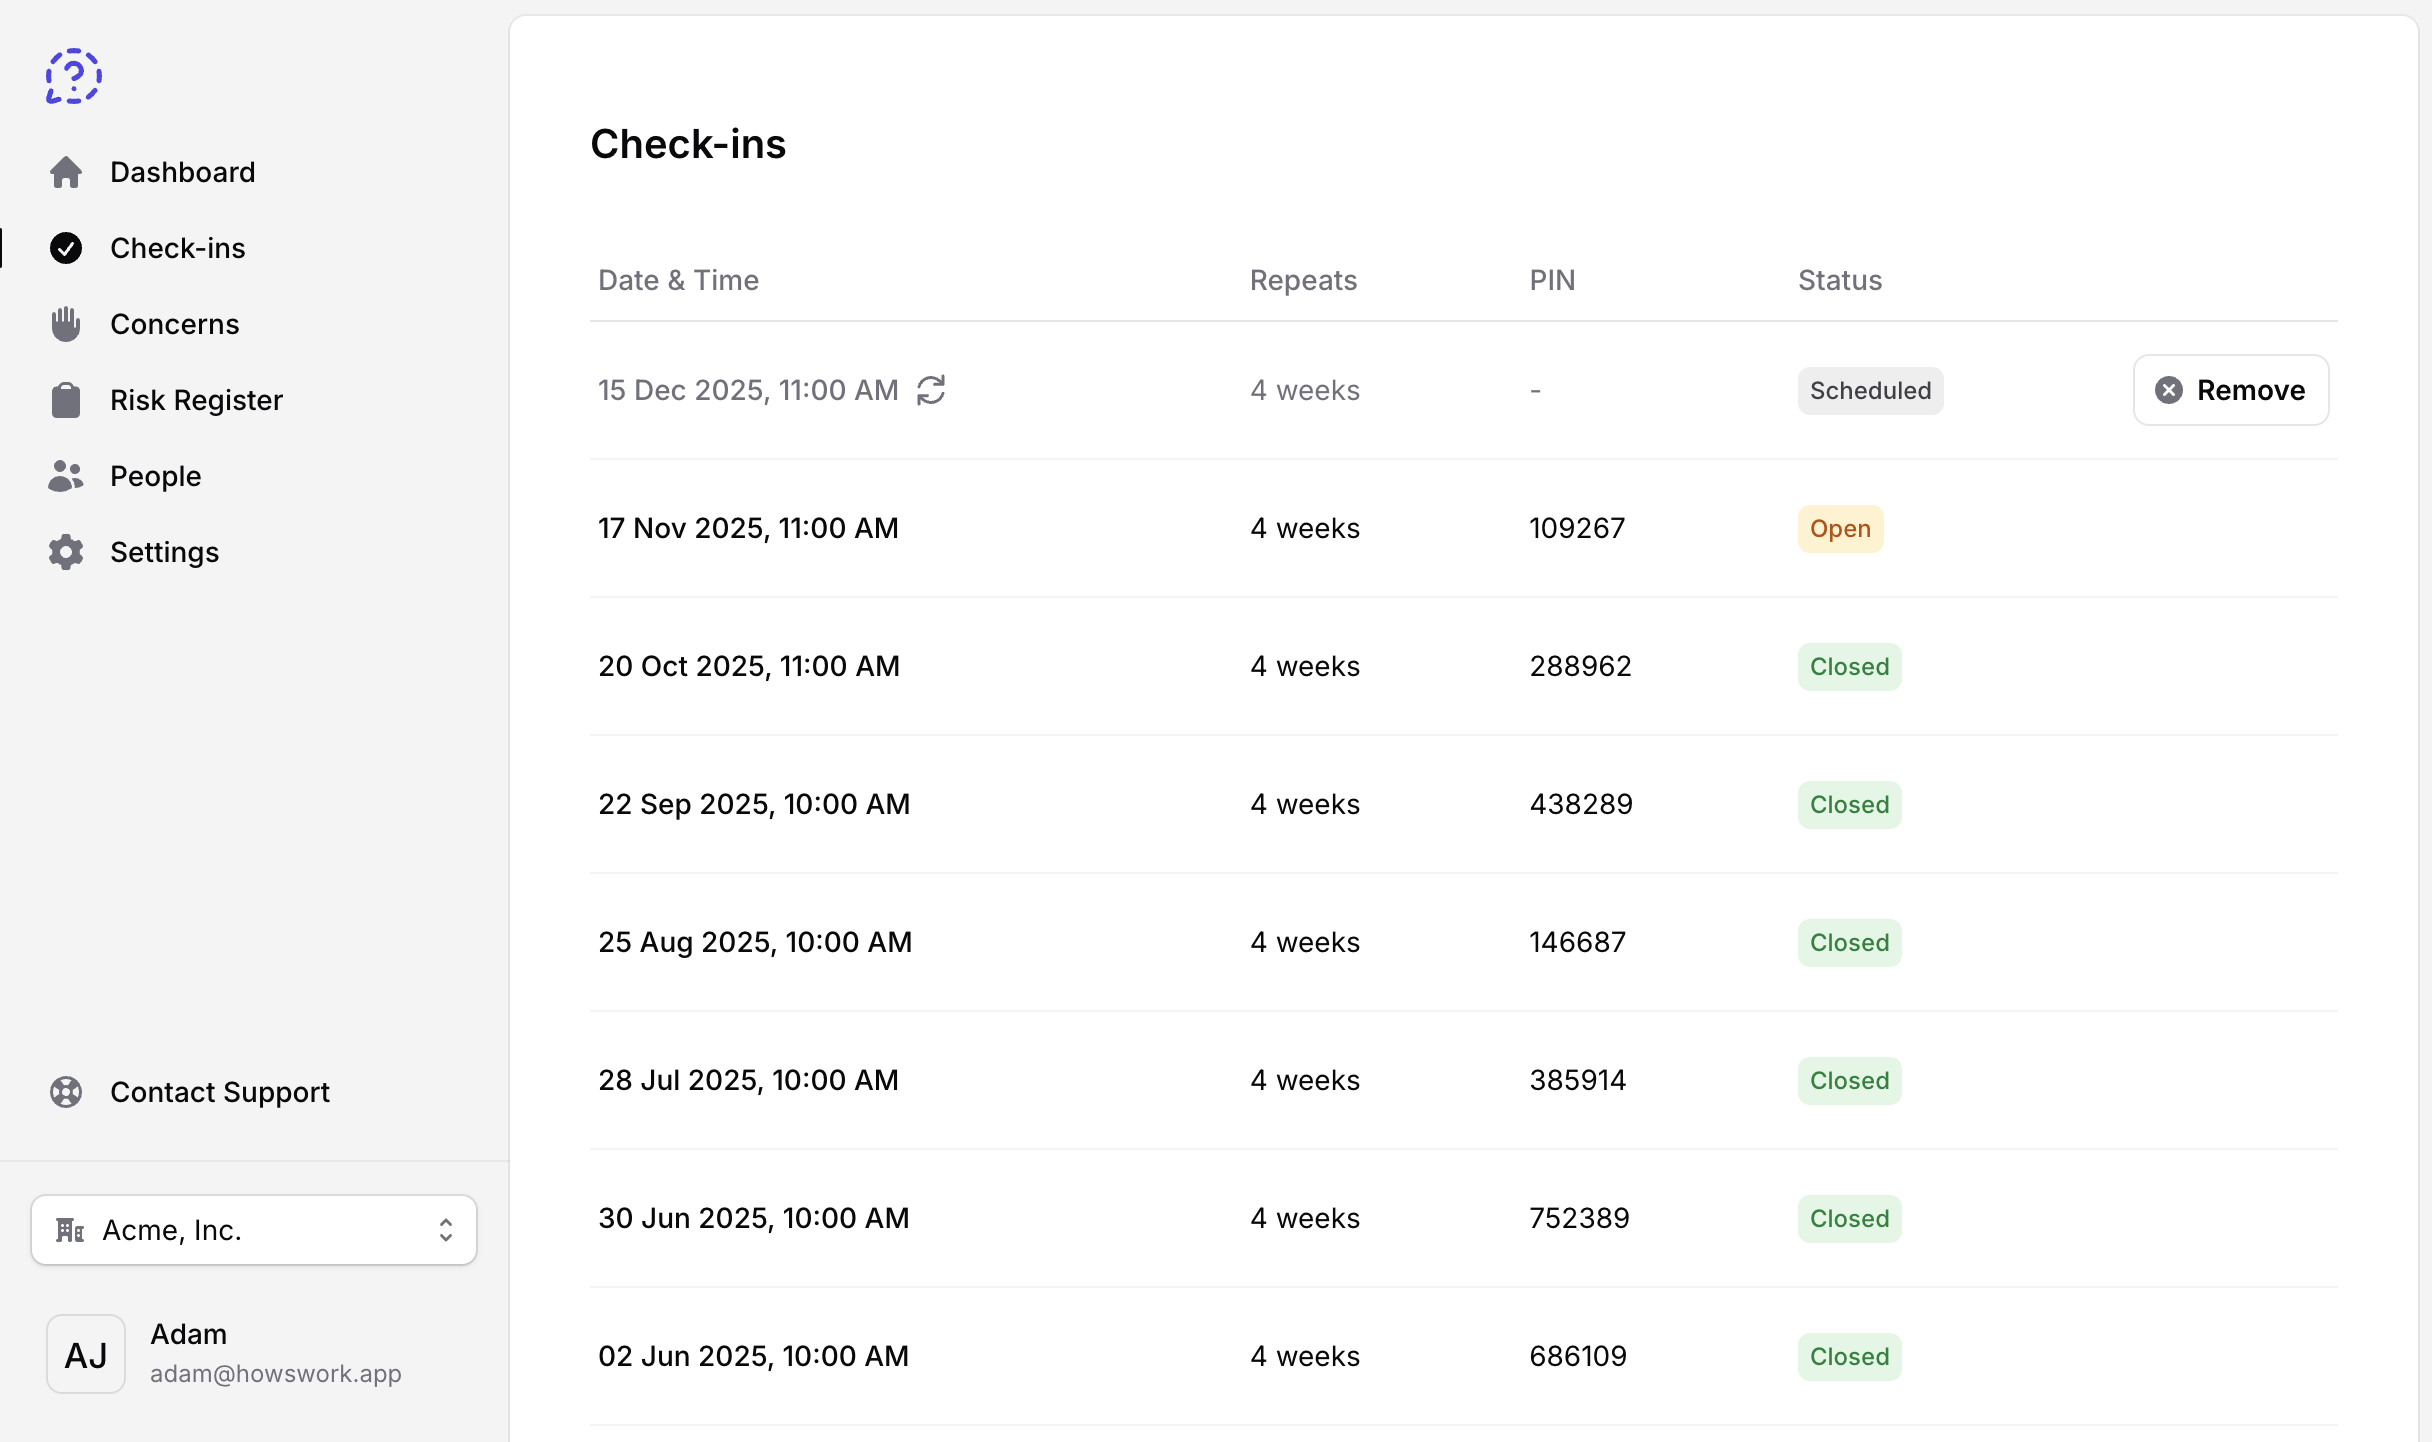
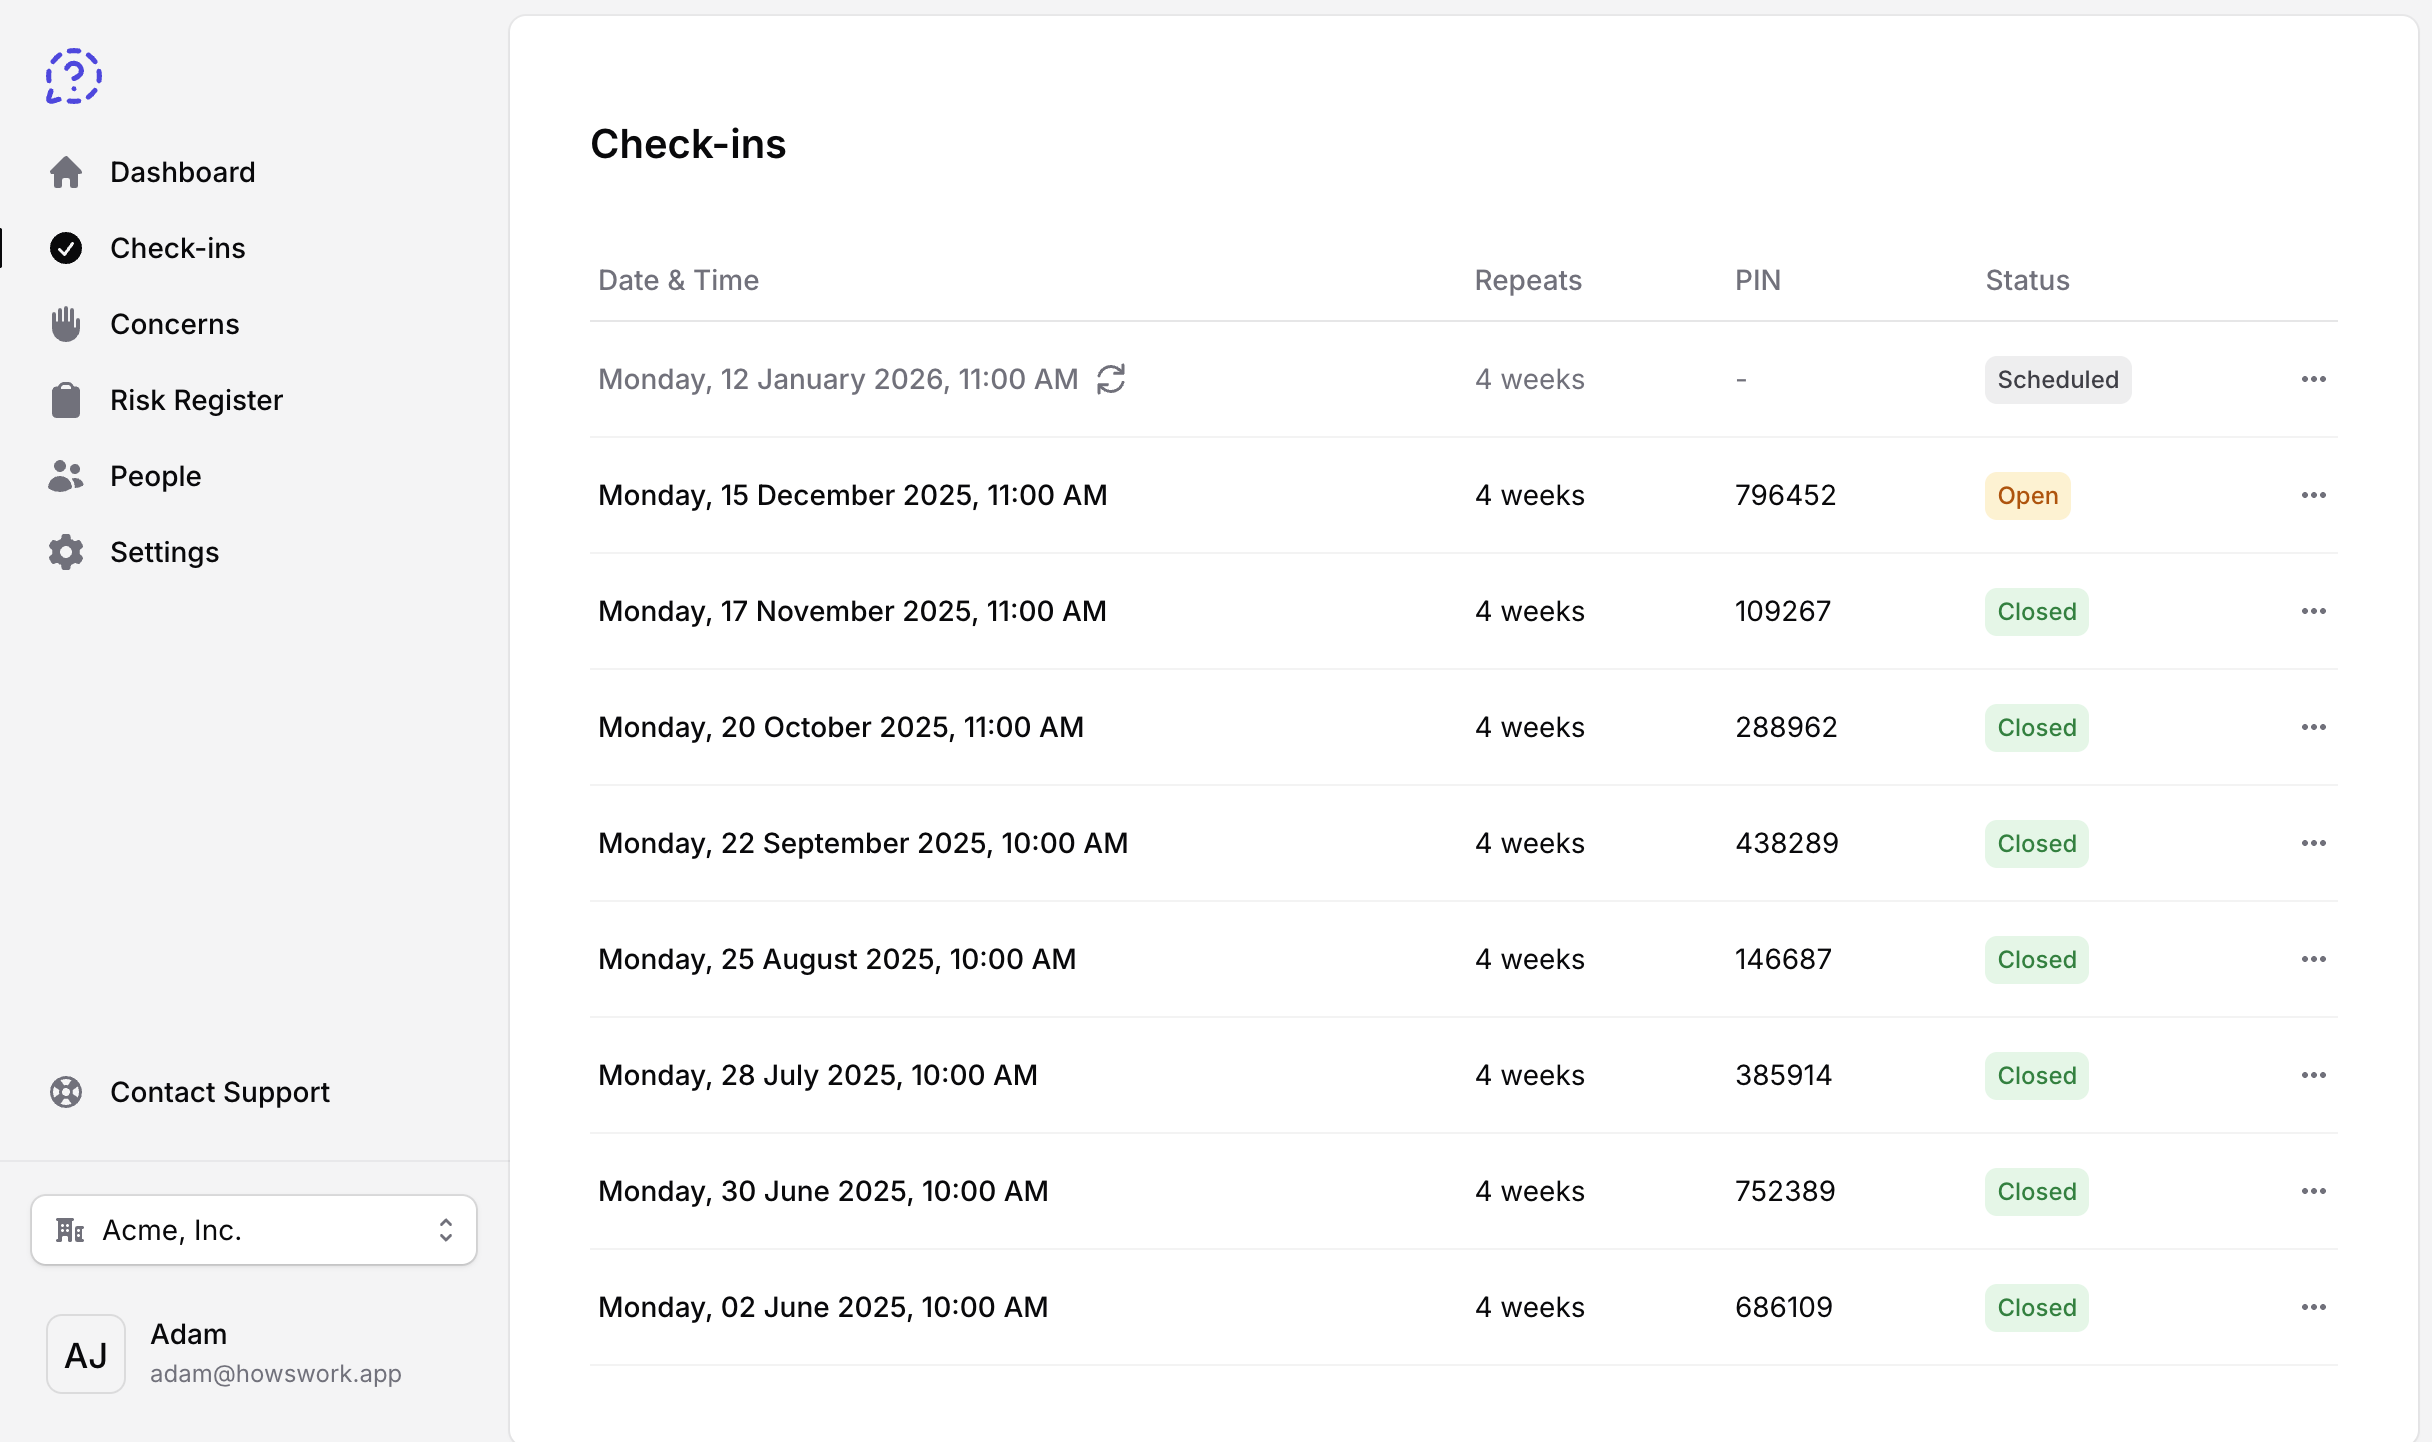
Updated hero screenshot

diff --git a/src/components/company/protected-layout/concern/Details.tsx b/src/components/company/protected-layout/concern/Details.tsx
@@ -38,7 +38,12 @@ export default function Details(props: DetailsProps) {
           {buttonText}
         </Button>
 
-        <TextLink href="" target="_blank" className="text-sm sm:text-xs">
+        <TextLink
+          href="https://articles.howswork.app/can-your-writing-style-identify-you/"
+          target="_blank"
+          className={`text-sm sm:text-xs ${props.disabled && "pointer-events-none opacity-50"}`}
+          tabIndex={props.disabled ? -1 : undefined}
+        >
           What's this?
         </TextLink>
       </div>

diff --git a/src/components/company/protected-layout/Concern.tsx b/src/components/company/protected-layout/Concern.tsx
@@ -53,7 +53,7 @@ export default function Concern() {
           Cancel
         </Button>
 
-        <Button onClick={submit} color="indigo" disabled={details === "" || disabled}>
+        <Button onClick={submit} color="indigo" disabled={details.trim() === "" || disabled}>
           Send
         </Button>
       </DialogActions>
